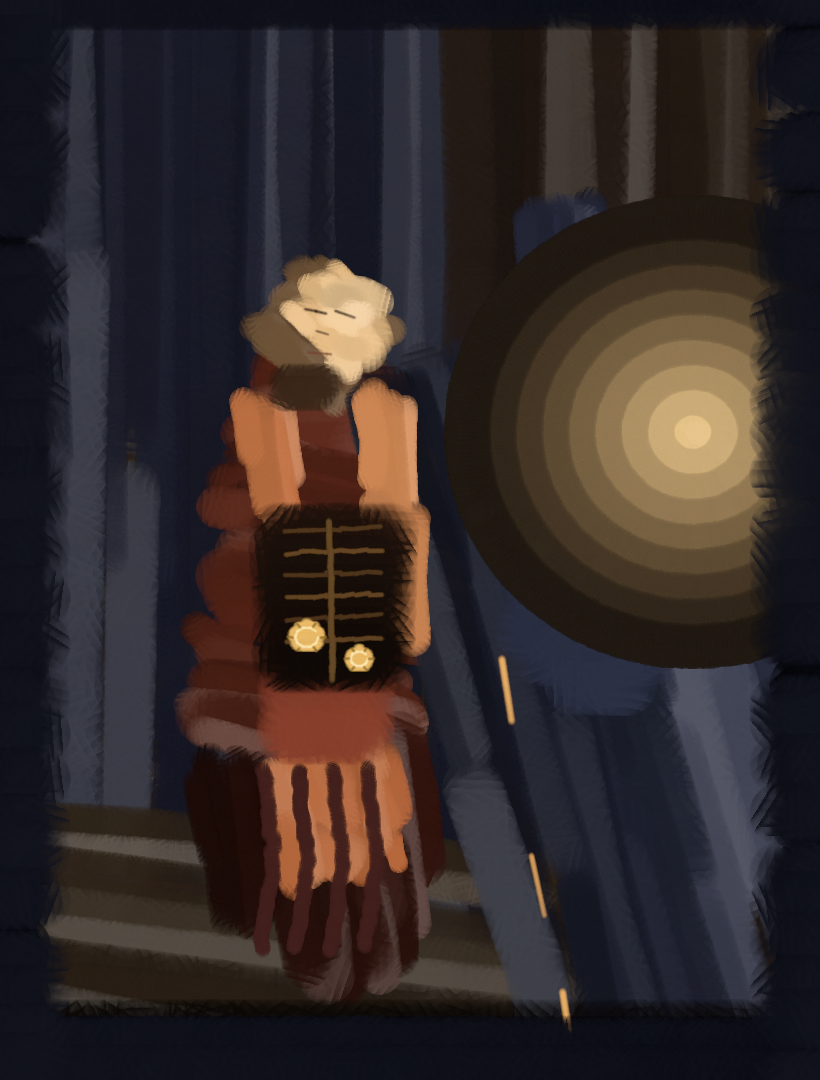
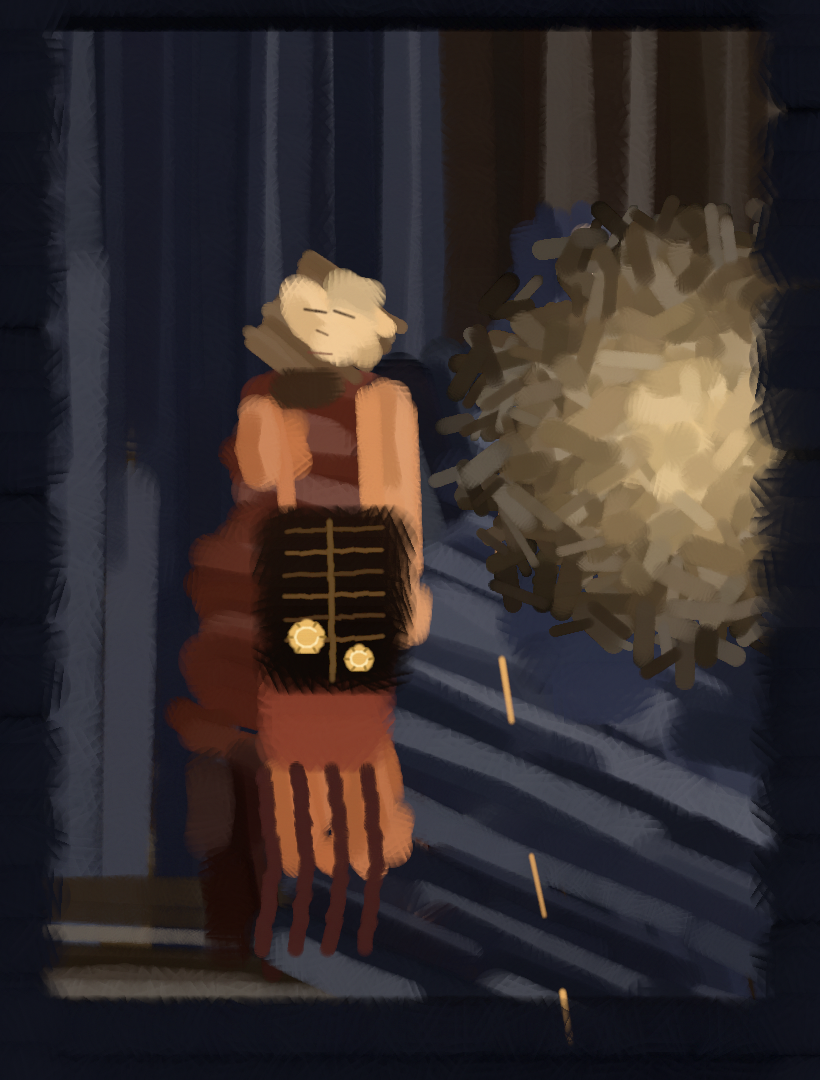
fix(samples): ship a fresh render of the yanshi sample, whose shipped image was stale
Looking at the shipped sample with my own eyes shows the halo as a concentric bullseye, which the code forbids:
the glow helper throws above a ninety pixel radius because opaque bristles draw the rings themselves, and the note
says that was measured twice. The score was already fixed, though; since the rework its halo is nine hundred short
strokes scattered through a disc with density weighted by distance from the lamp, and its comment calls the
bullseye the third occurrence of the same mistake. What was stale was the image, not the code.

Re-rendering just this work takes eight layers and eighteen hundred and seventy-five strokes in three hundred and
thirty-two seconds and only seventy-eight atoms, which is the batching win, and the rings are gone, leaving a soft
glow.

My own attempt at improving it made things worse and is reverted. Believing the new glow looked like popcorn with
an edge, I widened the disc from a third of the width to four tenths, raised the stroke count from nine hundred to
seventeen hundred and shrank the size from twenty-six to seventeen. The result is a popcorn wall with a hard edge,
and the cause is plain: the scatter points are confined to the disc, so inside it there is always a stroke and
outside it never is, which guarantees a visible boundary, while growing the radius only makes the wall bigger.

So this commit ships the re-render, which is an objective improvement over a bullseye the code explicitly
[…]

diff --git a/docs/design/implementation-notes.md b/docs/design/implementation-notes.md
@@ -5137,3 +5137,26 @@ medium: { id: "oil", version: 2, abi: 2, maxDab: 64,
 ⇒ 说明这条落笔走的是 **WASM 内核的拒绝路径** ✓，**本来就是有反馈的** ✓（回滚 + 日志 ✓）；
 我补的 `draw_shape` 检查覆盖的是**内核不可用时的回退分支** ✓ ⇒ 属于**纵深防御** ✓，
 **不是**本轮唯一的收益 ✓ —— 真正的收益在另三处**图层操作**（此前确实是全哑的 ✗）。
+
+### 示例作品 ✓：**仓库里那张是旧渲染** ✗（本轮查清并重渲 ✓）—— 以及一次**失败的**光晕尝试 ✓
+
+**看图（我自己看 ✓，用户要求的那条 ✓）** ✓：`assets/samples/sample-yanshi.png` 上，
+光晕是一个**同心圆靶子** ✗ —— 而**画谱里早就改掉了** ✓：
+`GLOW_SAFE_RADIUS = 90` 那条抛错的注释写着"大半径的几何环会被不透明介质画成靶心（**已实测两次**）" ✓，
+并且 805 行起已经换成"**在圆盘里随机散布 900 笔、按离灯距离加权变稀**" ✓（注释：**第三次同类错误** ✓）。
+⇒ **旧的是 PNG，不是代码** ✗。**重渲一遍**（`--only sample-yanshi` ✓，8 层 1875 笔 ✓、332 秒 ✓、
+**只用 78 个原子** ✓ —— 批量 20× 的收益 ✓）：**环没有了** ✓，光晕成了一团柔和的光雾 ✓。
+
+**然后我自己又犯了一次 ✗**：觉得那团"像爆米花、有边界" ✓ ⇒ 把半径 0.30W→0.40W ✓、笔数 900→1700 ✓、
+尺寸 26→17 ✓（想让它"更大、更细、更没有边" ✓）⇒ **结果更差** ✗：成了一堵**带硬边的爆米花墙** ✗。
+**根因很简单** ✓：散布点被限制在**半径 0.40W 的圆盘内** ✓ ⇒ 盘内到处是笔、盘外一笔没有 ✗
+⇒ **必然出现一圈硬边** ✗；而"光没有边"正是这一版最该保住的性质 ✗。**加大半径只是把墙做大** ✗。
+⇒ **已撤回** ✗（`git checkout` ✓），本轮**不发这个实验版** ✓。
+
+**本轮的取舍与记录** ✓：
+* **发**重渲那一版 ✓（相对旧图是**客观改进** ✓：去掉了代码明令禁止的同心靶心 ✗）；
+* **记下**新一版**仍有的缺陷** ✓：那团光雾**偏硬、偏块**✗，底部还有一段近似直线的边 ✗。
+  **下一步的正确做法**（不在本轮擅自试 ✗）✓：
+  ① 边缘的笔色必须**等于该处的背景色** ✓（现在用的是 `#221b14` ✓，而那里背景偏蓝 ✗ ⇒ 边上会浮出一圈棕色笔 ✓）；
+  ② 给散布加一条"**权重低于阈值就不落笔**" ✓ ⇒ 让密度**在边界之前就归零** ✓，边界自然消失 ✓；
+  ③ 颗粒**随权重变小** ✓（近灯大笔、远处小笔 ✓ —— 现在只有 `sizeJitter` ✓，没有"权重→尺寸"的联动 ✗）。
